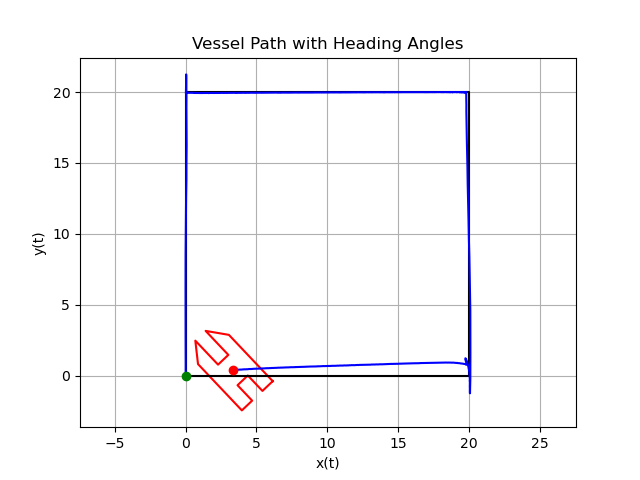
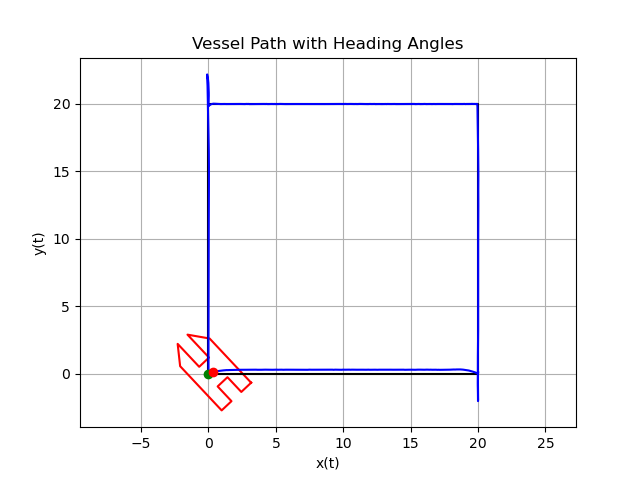
RAN model new calculates m2c propperly. A untested pseudo inverse method with constraint on alpha max and min values added. Failure state added to all optimization controllers (not pseudo inverse). MPC system control function tuned for normal and failstate.

diff --git a/src/main.cpp b/src/main.cpp
@@ -9,6 +9,7 @@
 #include <thread>
 
 #include "Control/control_alloc_selector.hpp"
+#include "Control/pseudo_inverse_allocation.hpp"
 #include "Control/PID_MIMO_motion_control.hpp"
 #include "Control/PID_heading_motion_control.hpp"
 #include "Control/MPC_control_system.hpp"
@@ -176,7 +177,7 @@ int main() {
     // Motion control classes
     MIMOPIDController MIMO_PID;
     HeadingPIDController headPID;
-    MPC_Control_System mpc_control(40, h*4); 
+    MPC_Control_System mpc_control(30, 4*h); 
 
     // Desired rate of turn and acceleration
     double r_d = 0.0; 
@@ -358,19 +359,25 @@ int main() {
 
         // - Control allocation
         switch (ControlAllocFlag) {
-            case 1: { // Nonlinear optimization with constraints
+            case 1: { // Pseudo-inverse control allocation
+                control_allocation = pseudo_inverse_allocation(tau_XYN, B, 200, 200);
+                n_c     = {control_allocation[0], control_allocation[2]};
+                alpha_c = {control_allocation[1], control_allocation[3]};
+                break;
+            }
+            case 2: { // Nonlinear optimization with constraints
                 control_allocation = NLOptControlAlloc(tau_XYN[0], tau_XYN[1], tau_XYN[2], U, n, alpha, failstate);
                 n_c     = {control_allocation[0], control_allocation[2]};
                 alpha_c = {control_allocation[1], control_allocation[3]};
                 break;
             }
-            case 2: { // Nonlinear optimization with constraints over a horizon taking rate constriants into account
+            case 3: { // Nonlinear optimization with constraints over a horizon taking rate constriants into account
                 control_allocation = MPC_control_alloc(tau_XYN[0], tau_XYN[1], tau_XYN[2], U, T_n, T_alpha, n, alpha, failstate);
                 n_c     = {control_allocation[0], control_allocation[2]};
                 alpha_c = {control_allocation[1], control_allocation[3]};
                 break;
             }
-            case 3: { // Model Predictive Control System (Motion control and control allocation using vessel model)
+            case 4: { // Model Predictive Control System (Motion control and control allocation using vessel model)
                 std::vector<double> x0 = {xn, yn, psi, u, v, r}; 
                 mpc_control.solve(x0, wpt[wpt_index-1].x, wpt[wpt_index-1].y, xn_d, yn_d, psi_d, n, alpha, failstate);
                 n_c = mpc_control.get_n_opt();

diff --git a/src/Control/MPC_control_system.cpp b/src/Control/MPC_control_system.cpp
@@ -278,26 +278,28 @@ bool MPC_Control_System::solve(const std::vector<double>& x0, double x_s, double
         // Crosstrack error components and squared magnitude
         MX crosstrack_x = X(0, i) - proj_x;
         MX crosstrack_y = X(1, i) - proj_y;
-        MX crosstrack_error_abs = crosstrack_x*crosstrack_x + crosstrack_y*crosstrack_y;
+        MX crosstrack_error_square = sqrt(crosstrack_x*crosstrack_x + crosstrack_y*crosstrack_y + 1e-6);
         // Progress error: distance from projected point to goal
         MX remaining_distance = path_length - proj_dist_along_path;
         // Normalize the remaining distance (so that 1 corresponds to the full path length)
         MX normalized_remaining_distance = remaining_distance / path_length;
-        MX distance_error_abs = normalized_remaining_distance*normalized_remaining_distance;
+        MX distance_error_square = sqrt(normalized_remaining_distance*normalized_remaining_distance + 1e-6);
 
-        // Cost function terms
-        cost +=  20 * crosstrack_error_abs; 
-        cost += 120 * distance_error_abs;
-        if (failstate[0] || failstate[1]) {
-            cost +=  5 * pow(X(2, i) - psi_d, 2);
+        if (failstate[0] || failstate[1]) { // Penalties when error state
+            cost +=  crosstrack_error_square; 
+            cost +=  55 * distance_error_square;
+            cost +=  pow(X(2, i) - psi_d, 2); 
+        } 
+        else { // Penalties in normal operation
+            cost +=   2 * crosstrack_error_square; 
+            cost +=  15 * distance_error_square;
+            cost +=  10 * pow(X(2, i) - psi_d, 2);  // Scaled based on progress such that this is not the only parameter of improtance close to the goal. 
         }
-        else {
-            cost +=  60 * pow(X(2, i) - psi_d, 2);  // Scaled based on progress such that this is not the only parameter of improtance close to the goal. 
-        }
+
         if (i > 0) {
             MX d_n = n_cmd(Slice(), i) - n_cmd(Slice(), i - 1);
             MX d_alpha = alpha_cmd(Slice(), i) - alpha_cmd(Slice(), i - 1);
-            cost += 5 * dot(d_n, d_n) + 5 * dot(d_alpha, d_alpha);
+            cost += 5*dot(d_n, d_n) + 1*dot(d_alpha, d_alpha);
         }  
     } 
     

diff --git a/src/Models/model_utilities.cpp b/src/Models/model_utilities.cpp
@@ -53,12 +53,54 @@ Eigen::Matrix3d Tzyx(double phi, double theta) {
     return T;
 }
 
-//-------------------------------------------------------------------
+//------------------------------------------------------------------------------
 // Helper function: m2c (added-mass to Coriolis matrix)
-// Stub, return a 6x6 zero matrix.
-//-------------------------------------------------------------------
-Eigen::MatrixXd m2c(const Eigen::MatrixXd &MA, const Eigen::VectorXd & /*nu_r*/) {
-    return Eigen::MatrixXd::Zero(6,6);
+//   M  : 6×6 or 3×3 inertia (rigid‐body MRB or added‐mass MA) matrix
+//   nu : 6×1 [u v w p q r]^T or 3×1 [u v r]^T velocity vector
+// returns
+//   C  : Coriolis‐centripetal matrix (6×6 or 3×3)
+//------------------------------------------------------------------------------
+Eigen::MatrixXd m2c(const Eigen::MatrixXd& M_in,
+    const Eigen::VectorXd& nu)
+{
+    // 1) Symmetrize M
+    Eigen::MatrixXd M = 0.5 * (M_in + M_in.transpose());
+
+    // 2) 6-DOF branch
+    if (nu.size() == 6) {
+        assert(M.rows() == 6 && M.cols() == 6);
+
+        Eigen::Matrix3d M11 = M.block<3,3>(0,0);
+        Eigen::Matrix3d M12 = M.block<3,3>(0,3);
+        Eigen::Matrix3d M21 = M12.transpose();
+        Eigen::Matrix3d M22 = M.block<3,3>(3,3);
+
+        Eigen::Vector3d nu1 = nu.segment<3>(0);
+        Eigen::Vector3d nu2 = nu.segment<3>(3);
+
+        Eigen::Vector3d nu1_dot = M11*nu1 + M12*nu2;
+        Eigen::Vector3d nu2_dot = M21*nu1 + M22*nu2;
+
+        Eigen::MatrixXd C = Eigen::MatrixXd::Zero(6,6);
+        C.block<3,3>(0,3) = -Smtrx(nu1_dot);
+        C.block<3,3>(3,0) = -Smtrx(nu1_dot);
+        C.block<3,3>(3,3) = -Smtrx(nu2_dot);
+        return C;
+    }
+    // 3) 3-DOF branch (surge, sway, yaw)
+    else {
+        assert(nu.size() == 3);
+        assert(M.rows() == 3 && M.cols() == 3);
+
+        double u = nu(0), v = nu(1), r = nu(2);
+        Eigen::Matrix3d C = Eigen::Matrix3d::Zero();
+
+        C(0,2) = - ( M(1,1)*v + M(1,2)*r );
+        C(1,2) =   ( M(0,0)*u );
+        C(2,0) =   ( M(1,1)*v + M(1,2)*r );
+        C(2,1) = - ( M(0,0)*u );
+        return C;
+    }
 }
 
 //-------------------------------------------------------------------

diff --git a/src/Control/pseudo_inverse_allocation.cpp b/src/Control/pseudo_inverse_allocation.cpp
@@ -1,0 +1,41 @@
+#include <Eigen/Dense>
+#include <cmath>
+
+std::vector<double> pseudo_inverse_allocation(
+    const std::vector<double>& tau_XYN,
+    const Eigen::MatrixXd& B,
+    double k_pos,
+    double k_neg)
+{
+    Eigen::Vector3d tau;
+    tau << tau_XYN[0], tau_XYN[1], tau_XYN[2];
+
+    // 1) Compute Moore–Penrose pseudo-inverse of B:
+    //    B^+ = B^T * (B * B^T)^(-1)
+    Eigen::Matrix3d BBt = B * B.transpose();       // 3×3
+    Eigen::Matrix3d BBt_inv = BBt.inverse();       // (B B^T)^(-1)
+    Eigen::MatrixXd Bplus = B.transpose() * BBt_inv; // (cols_B)×3
+
+    // 2) Solve for “extended” forces u_ext = B^+ * tau
+    Eigen::VectorXd u_ext = Bplus * tau;  // 4×1 if B is 3×4
+
+    // 3) Split into x/y components
+    double u1x = u_ext(0), u1y = u_ext(1);
+    double u2x = u_ext(2), u2y = u_ext(3);
+
+    // 4) Recover azimuth angles
+    double alpha1 = std::atan2(u1y, u1x);
+    double alpha2 = std::atan2(u2y, u2x);
+    //    (Assume alpha_i in [–pi/2, +pi/2] so cos(alpha_i) >= 0)
+
+    // 5) Choose the correct gain based on the sign of u_i_x
+    double k1 = (u1x >= 0 ? k_pos : k_neg);
+    double k2 = (u2x >= 0 ? k_pos : k_neg);
+
+    // 6) Back-substitute for speeds: u_i_x = k_i * n_i * cos(alpha_i)
+    double n1 = u1x / (k1 * std::cos(alpha1));
+    double n2 = u2x / (k2 * std::cos(alpha2));
+
+    return { n1, n2, alpha1, alpha2 };
+}
+

diff --git a/src/Utilities/plotting.cpp b/src/Utilities/plotting.cpp
@@ -197,7 +197,7 @@ void plotStateErrors() {
         return;
     }
 
-    plt::figure_size(800, 600);
+    plt::figure_size(2481, 1240);
     plt::named_plot("Error x position", time, error_x, "r-");
     plt::named_plot("Error y position", time, error_y, "g-");
     plt::named_plot("Error psi",        time, error_psi, "b-");
@@ -251,7 +251,7 @@ void plotAngles() {
         return;
     }
     
-    plt::figure_size(800, 600);
+    plt::figure_size(2481, 1240);
     plt::named_plot("psi", time, psi, "r-");
     plt::named_plot("psi_d", time, psi_d, "g-");
     plt::xlabel("Time (s)");
@@ -357,7 +357,7 @@ void plotClosestPointErrors() {
     oss_y << "cross track error y_e (total = " << total_y_e << "): ";
     std::string title_y = oss_y.str();
 
-    plt::figure_size(800, 600);
+    plt::figure_size(2481, 1240);
     plt::named_plot(title_x, time, x_e, "r-");
     plt::named_plot(title_y, time, y_e, "g-");
     //plt::named_plot("position error:        ", time, position_e, "b-");

diff --git a/include/Control/pseudo_inverse_allocation.hpp b/include/Control/pseudo_inverse_allocation.hpp
@@ -1,0 +1,15 @@
+#ifndef PSEUDO_INVERSE_ALLOCATION_HPP
+#define PSEUDO_INVERSE_ALLOCATION_HPP
+
+#include <Eigen/Dense>
+#include <cmath>
+
+// Input:
+//   B     : 3×4 (or 3×2) allocation matrix
+//   tau   : 3×1 desired wrench [X; Y; N]
+//   k_pos : thrust gain for forward rotation
+//   k_neg : thrust gain for reverse rotation
+// Returns: 4×1 vector [n1; n2; alpha1; alpha2]
+std::vector<double> pseudo_inverse_allocation(const std::vector<double>& tau_XYN, const Eigen::MatrixXd& B, double k_pos, double k_neg);
+
+#endif

diff --git a/include/Control/control_alloc_selector.hpp b/include/Control/control_alloc_selector.hpp
@@ -14,6 +14,7 @@ class ControlAllocationMethod {
     
     private:
         std::vector<std::string> methods = {
+            "Pseudo-inverse allocation with azimuthg angle constraints",
             "Non-linear constrained optimization control allocation",
             "MPC control allocation (simmilar to above, but with rate constraints)",
             "MPC control system (DP)"
